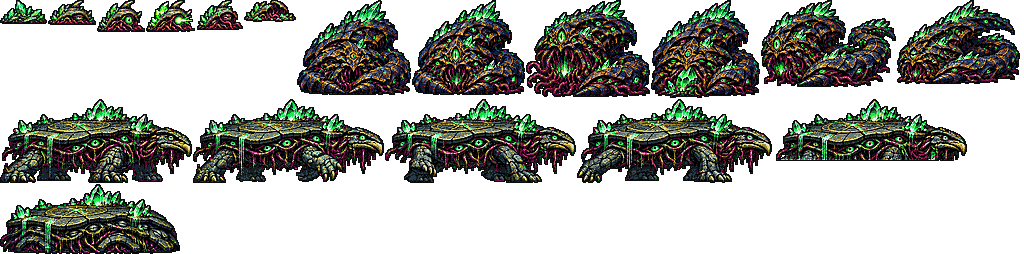
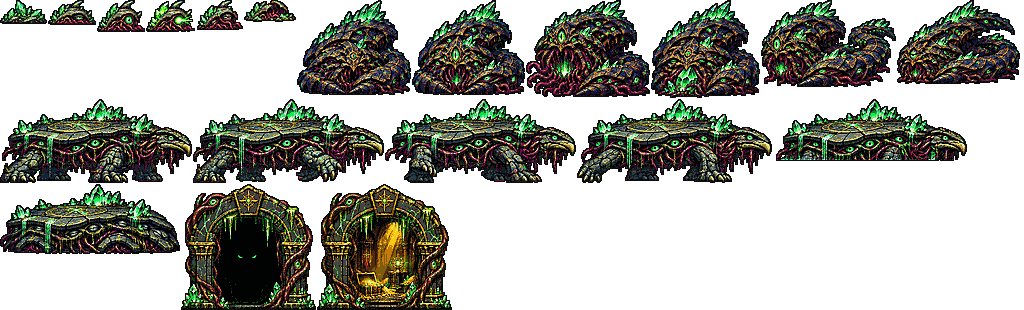
Jade Hollow: Robert's vault gate behind the Gatekeeper (closed with eyes, open with treasure once fed)
Claude-Session: https://claude.ai/code/session_014iNMQLwM4oBRY4MMgoH4Hp

diff --git a/src/jade.js b/src/jade.js
@@ -2,7 +2,7 @@
    - Watchers (his ideas 1 + 2): a cluster of jade crystals like any other, until the knight comes close. Then the shell
      lifts, the eye opens and it shoots jade spikes at whatever is nearest: the knight or the Drowned. Killed, it spills
      jade shards and a pile of loot. While awake it is a foe in G.foes (d.custom), so every attack can hit it.
-   - The Gatekeeper (idea 3): coiled across a tunnel mouth. Bring it 3 jade shards (stand by it) and it eats them,
+   - The Gatekeeper (idea 3): coiled across Robert's vault gate. Bring it 3 jade shards (stand by it) and it eats them,
      slides aside and opens its vault: a relic, an ember, a flare and a heap of gold.
    - The Shellback (idea 4): a gentle giant wading back and forth across a pool of jade water that burns the knight and
      the Drowned alike. Its flat shell is a moving platform: ride it across.
@@ -169,7 +169,7 @@
     } else if (k.state === "eat") {
       if ((k.st += dt) > 0.7) k.state = k.fed >= N.feed ? "move" : "hungry";
     } else if (k.state === "move") { // slides aside: the tunnel is open
-      k.moveT += dt; k.x = k.x0 + Math.min(1, k.moveT / 1.4) * 230;
+      k.moveT += dt; k.x = k.x0 + Math.min(1, k.moveT / 1.4) * 280;
       if (k.moveT > 1.4) { k.state = "aside"; open(k); }
     }
   }
@@ -217,12 +217,10 @@
   J.drawBack = function (g) {
     if (!J.on) return;
     const k = J.gate;
-    if (k) { // the tunnel mouth behind it, glowing once it opens
+    if (k) { // Robert's vault gate behind it: dark with eyes inside, then lit gold with the treasure once it opens
       const x = k.x0, y = Wd.FLOOR;
-      g.fillStyle = "#050a08"; g.beginPath(); g.ellipse(x, y, 110, 170, 0, Math.PI, 0); g.fill();
-      g.strokeStyle = "#2a3a34"; g.lineWidth = 10; g.beginPath(); g.ellipse(x, y, 116, 176, 0, Math.PI, 0); g.stroke();
-      g.strokeStyle = "#a08a40"; g.lineWidth = 2; g.beginPath(); g.ellipse(x, y, 122, 182, 0, Math.PI, 0); g.stroke();
-      glow(g, x, y - 70, k.open ? 160 : 90, k.open ? "255,210,120" : "90,255,160", k.open ? 0.45 : 0.18 + 0.06 * Math.sin(k.t * 2));
+      glow(g, x, y - 100, k.open ? 180 : 100, k.open ? "255,210,120" : "90,255,160", k.open ? 0.4 : 0.12 + 0.05 * Math.sin(k.t * 2));
+      draw(g, k.open ? "vOpen" : "vClosed", x, y + 4, 1);
       const f = k.state === "sleep" ? "gSleep" : k.state === "wake" ? "gWake" : k.state === "hungry" ? "gHungry" : k.state === "eat" ? "gEat" : k.state === "move" ? "gMove" : "gAside";
       if (k.state === "hungry") glow(g, k.x - 30, Wd.FLOOR - 70, 70, "90,255,160", 0.35);
       draw(g, f, k.x, Wd.FLOOR + 4, k.state === "move" || k.state === "aside" ? 1 : -1);

diff --git a/src/jadeart.js b/src/jadeart.js
@@ -1,3 +1,3 @@
 /* The Jade Hollow's creatures, cut by tools/cut_jade_creatures.py from Robert's sheets: atlas rects [x, y, w, h] (+ the shellback's flat top row). */
 window.DS = window.DS || {};
-DS.JADEART = {"wDisguise":[0,0,47,24],"wWake":[48,0,48,25],"wAwake":[97,0,48,32],"wShoot":[146,0,50,32],"wHurt":[197,0,46,30],"wDead":[244,0,52,22],"gSleep":[297,0,114,95],"gWake":[412,0,113,95],"gHungry":[526,0,124,97],"gEat":[651,0,109,98],"gMove":[761,0,135,87],"gAside":[897,0,123,84],"sWalk1":[0,99,192,84,21],"sWalk2":[193,99,191,84,21],"sWalk3":[385,99,191,84,21],"sWalk4":[577,99,195,84,21],"sWade":[773,99,194,62,21],"sSleep":[0,184,180,70,20]};
+DS.JADEART = {"wDisguise":[0,0,47,24],"wWake":[48,0,48,25],"wAwake":[97,0,48,32],"wShoot":[146,0,50,32],"wHurt":[197,0,46,30],"wDead":[244,0,52,22],"gSleep":[297,0,114,95],"gWake":[412,0,113,95],"gHungry":[526,0,124,97],"gEat":[651,0,109,98],"gMove":[761,0,135,87],"gAside":[897,0,123,84],"sWalk1":[0,99,192,84,21],"sWalk2":[193,99,191,84,21],"sWalk3":[385,99,191,84,21],"sWalk4":[577,99,195,84,21],"sWade":[773,99,194,62,21],"sSleep":[0,184,180,70,20],"vClosed":[181,184,135,126],"vOpen":[317,184,135,126]};

diff --git a/tools/cut_jade_creatures.py b/tools/cut_jade_creatures.py
@@ -1,5 +1,5 @@
 """Cut Robert's Jade Hollow creature sheets (2026-11-25, magenta key) into pixel frames for src/jade.js.
-Sources: /mnt/project-files/art-prompts/returned/side-view/levels/jade/{watcher,gatekeeper,shellback}.png
+Sources: /mnt/project-files/art-prompts/returned/side-view/levels/jade/{watcher,gatekeeper,shellback,vault-gate}.png
 Writes assets/jade/creatures.png (one atlas) and src/jadeart.js (DS.JADEART: name -> [x, y, w, h] (+ top row for the shellback), in pixel px;
 1 px = 2 world units, a knight stands ~42 px). Every frame of a creature keeps the sheet's relative sizes; the
 shellback's wading frame is cut at the waterline (the game draws its own water).
@@ -18,6 +18,7 @@ SHEETS = {
     "watcher.png": (3, 2, ["wDisguise", "wWake", "wAwake", "wShoot", "wHurt", "wDead"], 30),
     "gatekeeper.png": (3, 2, ["gSleep", "gWake", "gHungry", "gEat", "gMove", "gAside"], 96),
     "shellback.png": (2, 3, ["sWalk1", "sWalk2", "sWalk3", "sWalk4", "sWade", "sSleep"], 82),
+    "vault-gate.png": (2, 1, ["vClosed", "vOpen"], 124),  # the Gatekeeper's vault (Robert 2026-11-26)
 }
 
 def pixelize(im, scale, colors=14, outline=(10, 14, 12)):
